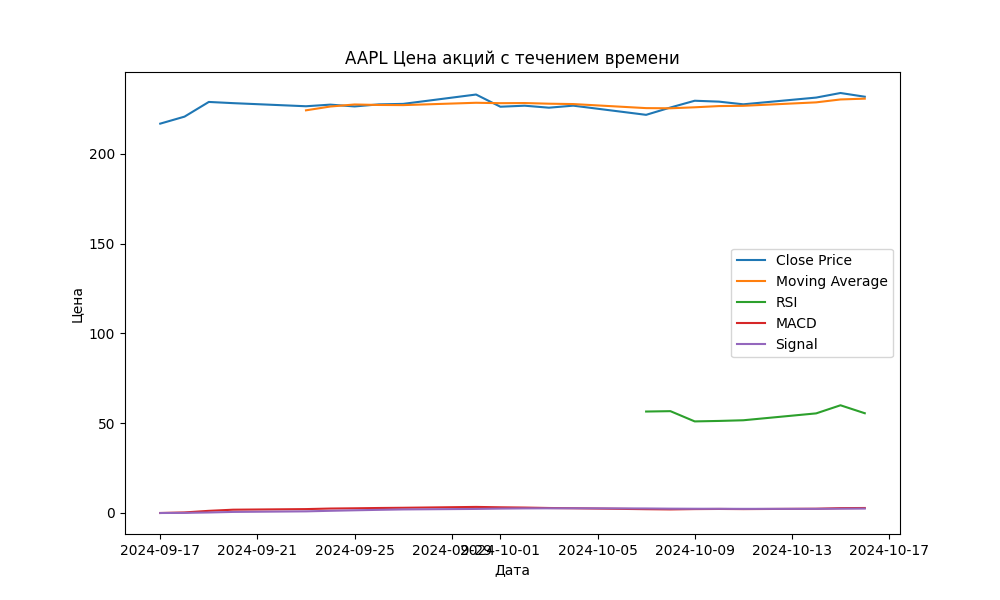
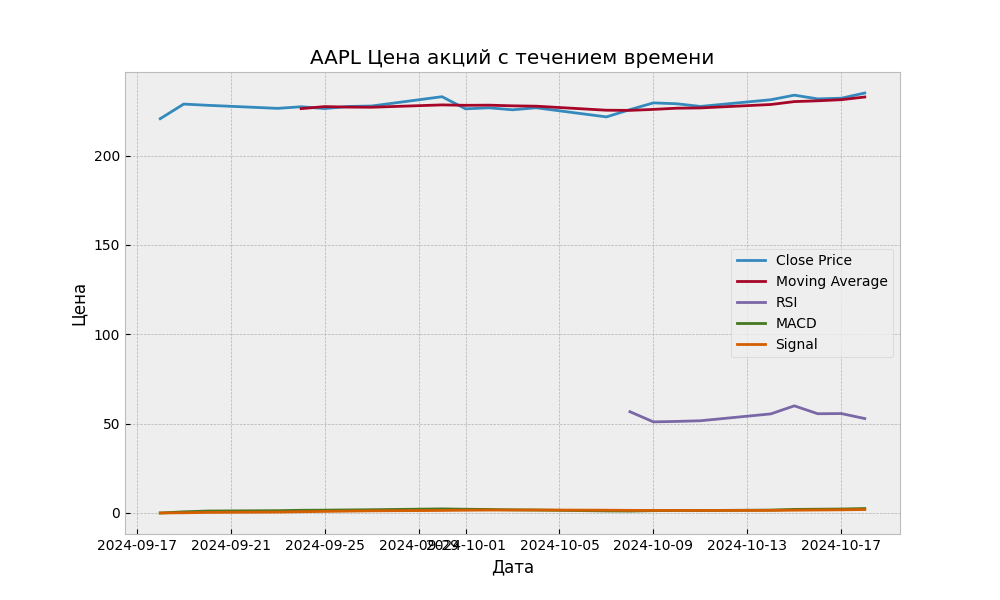
7. Добавила возможность пользователю выбирать стиль для экспортированного графика

diff --git a/main.py b/main.py
@@ -2,9 +2,15 @@ import data_download as dd
 import analysis_data_mean as da
 import os
 import data_plotting as dplt
+import seaborn as sns
+import matplotlib.pyplot as plt
 
 
 def main():
+    # Выводим доступные стили
+    print("Доступные стили для графика:", plt.style.available)
+    # Устанавливаем стиль seaborn
+    sns.set()
     print("Добро пожаловать в инструмент получения и построения графиков биржевых данных.")
     print("Вот несколько примеров биржевых тикеров, которые вы можете рассмотреть: AAPL (Apple Inc), "
           "GOOGL (Alphabet Inc), MSFT (Microsoft Corporation), AMZN (Amazon.com Inc), TSLA (Tesla Inc).")
@@ -32,8 +38,13 @@ def main():
     # Adding a function call
     stock_data = dd.calculate_macd(stock_data)
 
+    # User selects the style of the plot
+    style = input("Выберите стиль графика (например, 'Solarize_Light2', '_classic_test_patch', '_mpl-gallery',"
+                  " '_mpl-gallery-nogrid', 'bmh', 'classic', 'dark_background', 'fast', 'fivethirtyeight', 'ggplot', "
+                  "'grayscale', 'seaborn-v0_8'): ")
+
     # Plot the data dplt.create_and_save_plot(stock_data, ticker, period)
-    dplt.create_and_save_plot(stock_data, ticker, period)
+    dplt.create_and_save_plot(stock_data, ticker, period, style)
 
     # Calculate and display mean closing price
     da.display_mean_closing_price(stock_data)

diff --git a/data_plotting.py b/data_plotting.py
@@ -1,7 +1,10 @@
-# import matplotlib.pyplot as plt
 import matplotlib.pyplot as plt
 import pandas as pd
 import os
+import seaborn as sns
+
+# Устанавливаем стиль seaborn
+sns.set()
 
 
 # data_plotting.py:
@@ -13,7 +16,10 @@ import os
 # Создаём график, отображающий цены закрытия и скользящие средние.
 # Предоставляет возможность сохранения графика в файл. Параметр filename -
 # если он не указан, имя файла генерируется автоматически.
-def create_and_save_plot(data, ticker, period, filename=None):
+def create_and_save_plot(data, ticker, period, style='classic', filename=None):
+    """Создаёт график, отображающий цены закрытия и скользящие средние."""
+
+    plt.style.use(style)  # Применяем выбранный стиль
     plt.figure(figsize=(10, 6))
 
     if 'Date' not in data:
